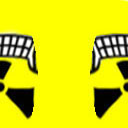
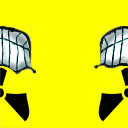
Toxic Leader Update

Changed region(s): [[0.0, 0.1875, 0.3125, 1.0], [0.6875, 0.1875, 1.0, 0.9688], [0.9375, 0.0, 1.0, 0.0312]]

diff --git a/toontown/suit/SuitGlobals.py b/toontown/suit/SuitGlobals.py
@@ -23,7 +23,7 @@ suitProperties = {'f': (4.0 / cSize, SuitDNA.corpPolyColor, ['flunky', 'glasses'
                   'hh': (6.5 / aSize, SuitDNA.corpPolyColor, ['headhunter'], '', 7.45),
                   'cr': (6.75 / cSize, VBase4(0.85, 0.55, 0.55, 1.0), ['flunky'], 'corporate-raider.jpg', 8.23),
                   'tbc': (7.0 / aSize, VBase4(0.75, 0.95, 0.75, 1.0), ['bigcheese'], '', 9.34),
-                  'tl': (7.3 / aSize, VBase4(2.55, 2.55, 0, 1.0), ['twoface'], 'toxic-leader.jpg', 9.5),
+                  'tl': (7.3 / aSize, VBase4(2.55, 2.55, 0, 1.0), ['yesman'], 'toxic-leader.jpg', 9.5),
                   # Lawbots
                   'bf': (4.0 / cSize, SuitDNA.legalPolyColor, ['tightwad'], 'bottom-feeder.jpg', 4.81),
                   'b': (4.375 / bSize, VBase4(0.95, 0.95, 1.0, 1.0), ['movershaker'], 'blood-sucker.jpg', 6.17),
